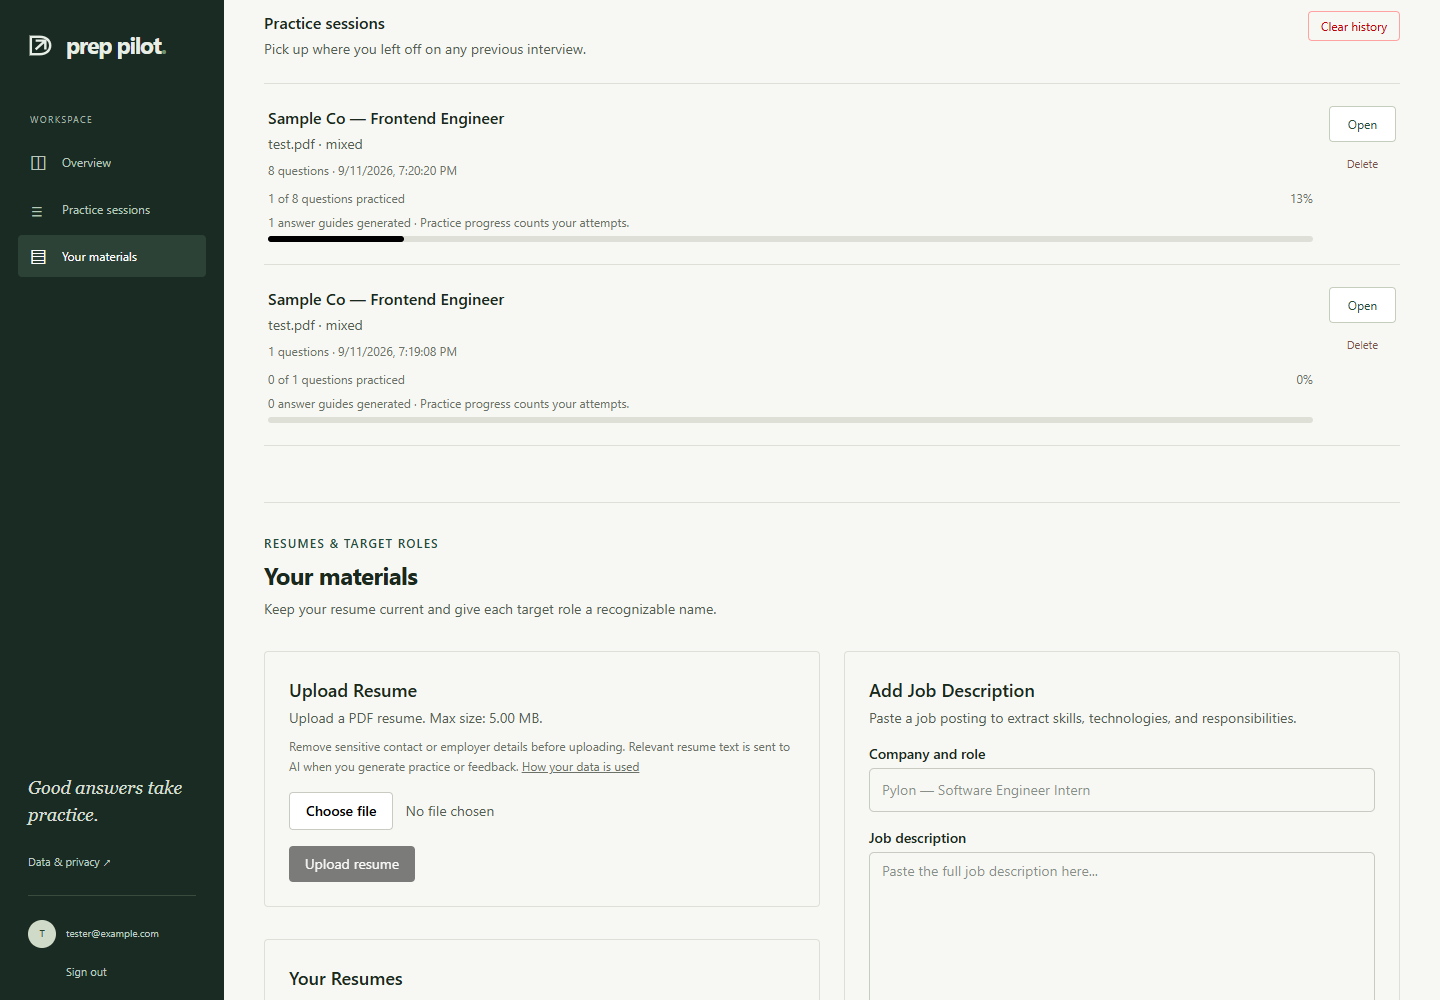
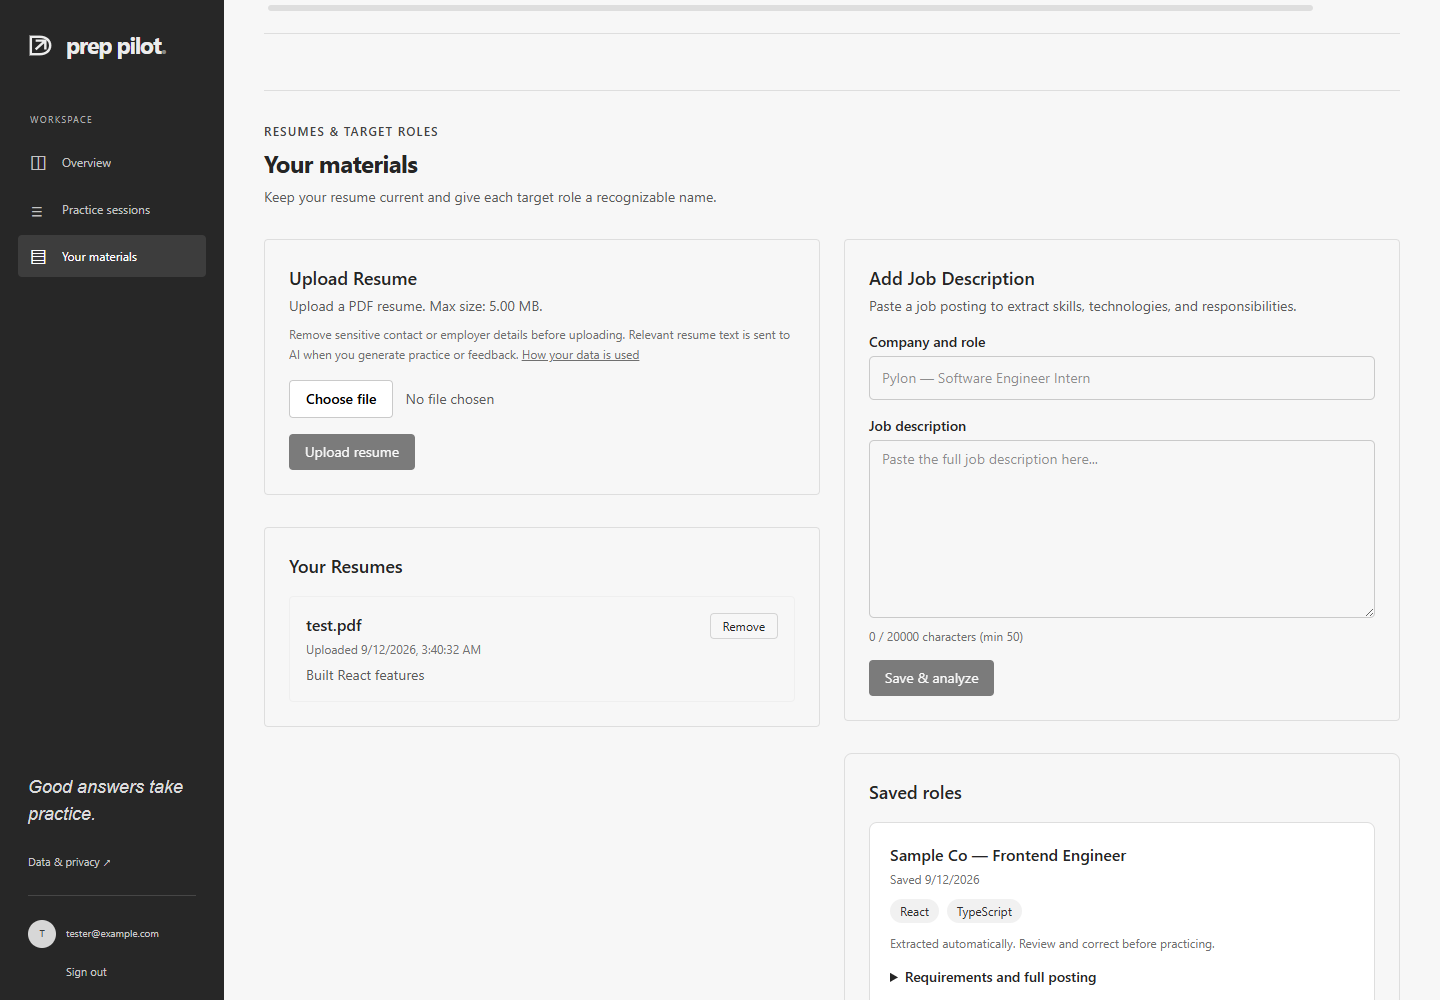
docs: refresh screenshots for the neutral interface

diff --git a/docs/ui-design.md b/docs/ui-design.md
@@ -4,11 +4,11 @@ The September 2026 redesign gives Prep Pilot a consistent identity across the la
 
 ## Direction
 
-- Warm off-white surfaces and deep green actions; color communicates selection and emphasis.
-- Serif display typography on the public page, with system sans-serif text in the workspace. No external font requests.
+- White and light-gray surfaces with charcoal actions, subtle borders, and restrained shadows.
+- Simple sans-serif typography throughout. No external font requests.
 - A shared brand mark and workspace navigation; a compact horizontal navigation on mobile.
 - Session history uses divided rows. Session metadata is condensed so questions and writing get more space.
-- Product examples replace decorative feature cards. The interactive sample remains explicitly illustrative.
+- A compact public introduction leads directly to sign-in and account creation. Marketing sections and the interactive demo are removed.
 - Visible keyboard focus, labeled controls, reduced-motion support, and a skip link in the workspace.
 
 References: [Linear's UI redesign](https://linear.app/now/how-we-redesigned-the-linear-ui) for hierarchy and alignment, and [Raycast's interface refresh](https://www.raycast.com/blog/a-fresh-look-and-feel) for focused, compact interactions. Prep Pilot uses its own layout, colors, copy, and mark.

diff --git a/README.md b/README.md
@@ -12,7 +12,7 @@ Built as a full-stack portfolio project to demonstrate end-to-end product develo
 
 ## Screenshots
 
-Interface previews captured on September 11, 2026 using local sample data. See the [UI design notes](docs/ui-design.md) for the redesign direction and verification.
+Interface previews refreshed for the neutral UI using local sample data. See the [UI design notes](docs/ui-design.md) for the redesign direction and verification.
 
 ### Landing page
 

diff --git a/docs/screenshots/README.md b/docs/screenshots/README.md
@@ -1,6 +1,6 @@
 # Screenshots
 
-Interface previews captured on September 11, 2026 from the local smoke fixture. All account, resume, role, and feedback content is synthetic sample data.
+Interface previews refreshed for the neutral UI from the local smoke fixture. All account, resume, role, and feedback content is synthetic sample data.
 
 | File | Content |
 |------|---------|
